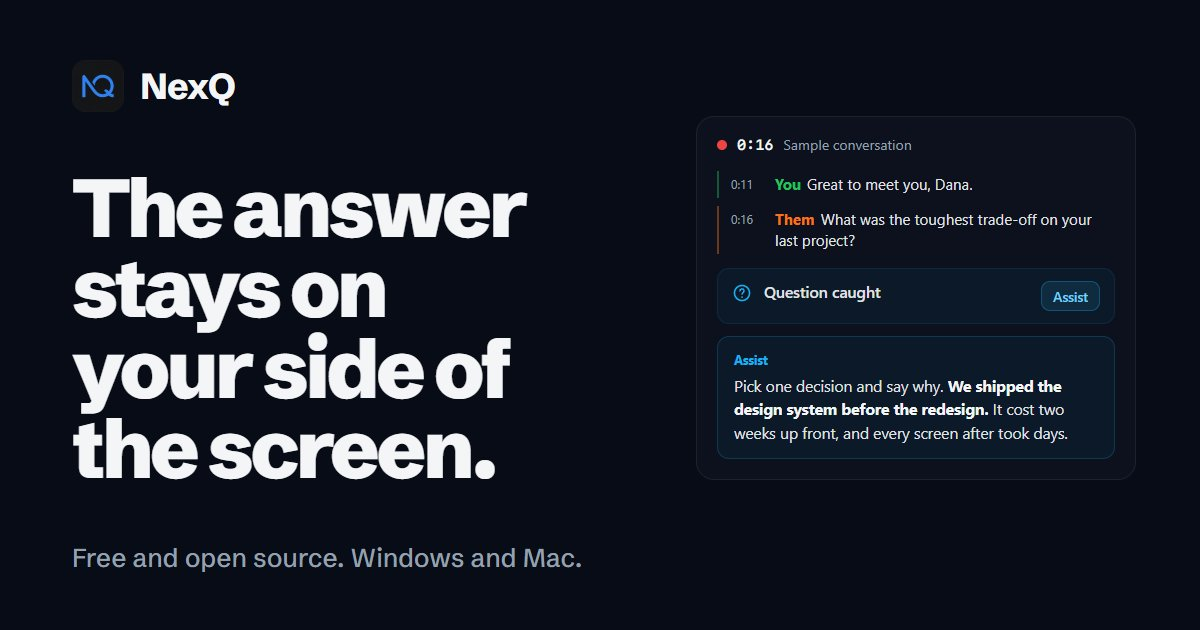
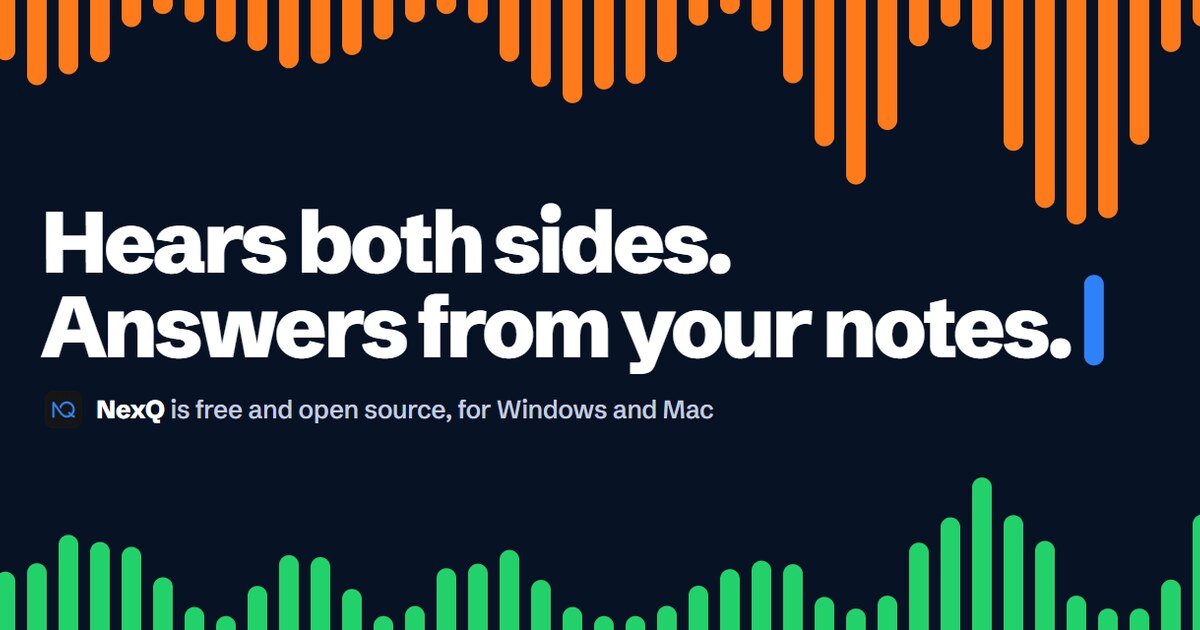
docs(website): clearer homepage message, correct speech claims, robots and 404 (#169)

diff --git a/website/src/data/site.ts b/website/src/data/site.ts
@@ -16,10 +16,10 @@ export const DOCS = `${REPO}/tree/main/docs/user-guide`;
 /** Link to a user-guide page, e.g. doc('keyboard-shortcuts'). */
 export const doc = (name: string) => `${REPO}/blob/main/docs/user-guide/${name}.md`;
 
-export const SITE_TITLE = 'NexQ: Open-Source AI Meeting Assistant & Interview Copilot';
+export const SITE_TITLE = 'NexQ: Open-Source AI Meeting Assistant for Windows and Mac';
 // Keep at or under 160 characters (checked at build time in Layout.astro).
 export const SITE_DESCRIPTION =
-  'Free, open-source desktop copilot for calls and interviews. Live transcripts of both sides, answers from your own AI, no bot joins. Windows and Mac.';
+  'Free, open-source meeting assistant. Transcribes both sides of a call live and answers from your notes, with local models or your own AI. No bot joins.';
 
 /** Section ids, in page order. Components use these for `id=` and nav links. */
 export const SECTION = {
@@ -62,7 +62,7 @@ export const STT_PROVIDERS: SttProvider[] = [
   { name: 'Sherpa-ONNX', where: 'device' },
   { name: 'ORT Streaming', where: 'device' },
   { name: 'Whisper.cpp', where: 'device', note: 'Transcribes recordings only, not live calls.' },
-  { name: 'Windows Speech', where: 'device', note: 'Windows only, and only your side (the microphone).' },
+  { name: 'Windows Speech', where: 'cloud-nokey', note: 'No key, but the audio goes to Microsoft’s online speech service. Windows only, and only your side (the microphone).' },
   { name: 'Web Speech', where: 'cloud-nokey', note: 'No key, but the audio goes to a cloud service. Your side (the microphone) only.' },
   { name: 'Deepgram', where: 'cloud' },
   { name: 'Groq Whisper', where: 'cloud' },
@@ -215,7 +215,7 @@ export const FAQ: { q: string; a: string }[] = [
   },
   {
     q: 'Does my audio leave my computer?',
-    a: 'Only if you choose a cloud provider. With an on-device speech engine such as Parakeet and a local model through Ollama or LM Studio, audio, transcripts and answers stay on your machine. A cloud provider receives what you send it, and Web Speech sends your microphone audio to a cloud service even though it needs no key. Meetings are stored in a local database on your computer, and API keys sit in the system credential store (Windows Credential Manager, or Keychain on a Mac).',
+    a: 'With the settings a new install starts with, yes: Web Speech (your microphone) is an online service, and so is Deepgram (the other side), which starts once you add a key. You can change both. With an on-device speech engine such as Parakeet and a local model through Ollama or LM Studio, audio, transcripts and answers stay on your machine. A cloud provider receives what you send it, and Web Speech and Windows Speech send your microphone audio online even though they need no key. Meetings are stored in a local database on your computer, and API keys sit in the system credential store (Windows Credential Manager, or Keychain on a Mac).',
   },
   {
     q: 'Can other people see NexQ when I share my screen?',

diff --git a/docs/website-pending.md b/docs/website-pending.md
@@ -4,5 +4,3 @@ Changes from past releases that the owner chose not to put on the website yet. T
 
 Format: `- vX.Y.Z: what changed → section(s) it would touch`
 
-- Next release: Windows Speech uses Microsoft's online service, so it is not an on-device engine → `STT_PROVIDERS` in `site.ts` (`cloud-nokey` plus note), Your AI ("no key, cloud, Windows, mic only")
-- Next release: fresh installs start with cloud speech on both sides → Privacy, FAQ "Does my audio leave my computer?"
